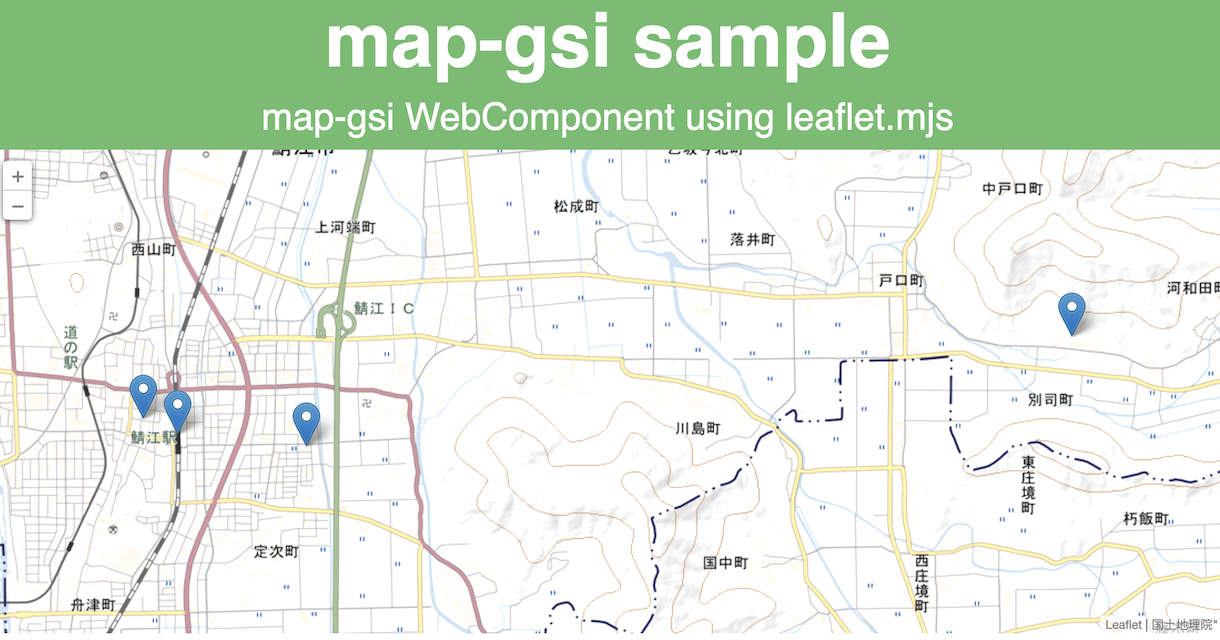
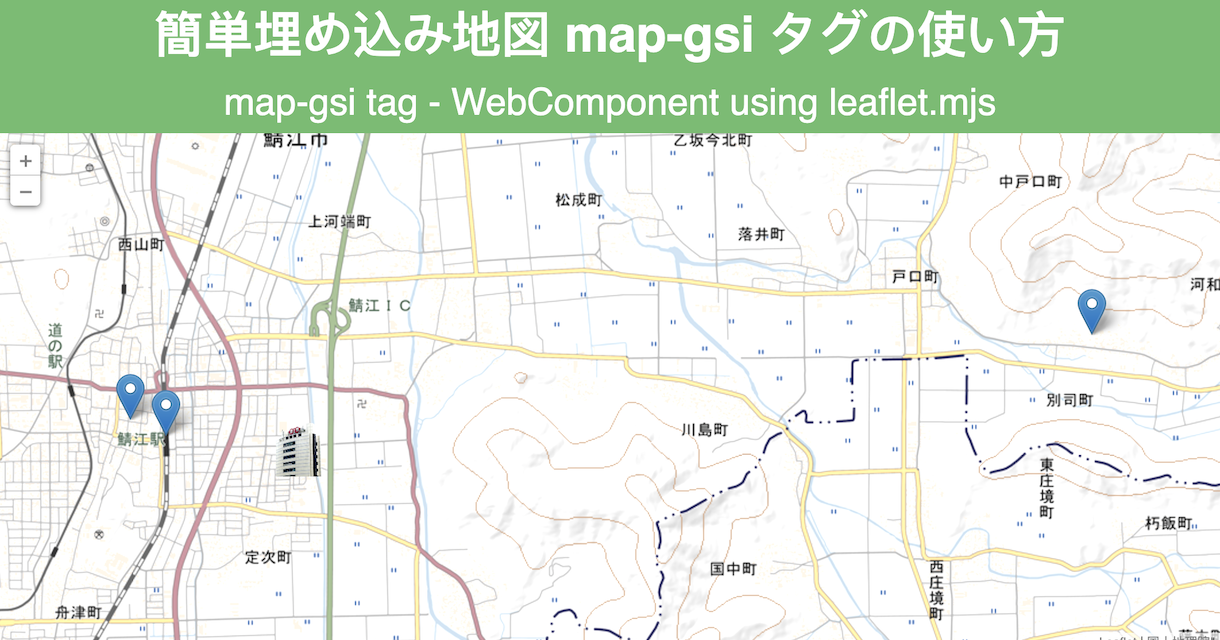
add how to use

diff --git a/map-gsi.html b/map-gsi.html
@@ -3,14 +3,14 @@
 <link rel="apple-touch-icon" href="map-gsi-test.png"/>
 <meta property="og:image" content="map-gsi-test.png"/>
 <meta name="format-detection" content="telephone=no"/>
-<title>map-gsi test - leaflet.mjs</title>
+<title>簡単埋め込み地図 map-gsi タグの使い方</title>
 <link rel="stylesheet" href="./map-gsi-test.css"></link>
 </head>
 <body>
 
-<h1 id=title>map-gsi tag test</h1><div class=subtitle>map-gsi tag - WebComponent using leaflet.mjs</div>
+<h1 id=title>簡単埋め込み地図 map-gsi タグの使い方</h1><div class=subtitle>map-gsi tag - WebComponent using leaflet.mjs</div>
 
-<script type='module' src="./map-gsi.mjs"></script>
+<script type="module" src="https://code4sabae.github.io/leaflet-mjs/map-gsi.mjs"></script>
 <map-gsi>
   <map-gsi-icon ll="35.944535,136.186228" name="Hana道場"></map-gsi-icon>
   <map-gsi-icon ll="35.943560,136.188917" name="鯖江駅"></map-gsi-icon>
@@ -18,12 +18,27 @@
   <map-gsi-icon ll="35.949658,136.258142" name="JAPAN CRAFT HOUSE"></map-gsi-icon>
 </map-gsi>
 
+<br>
+使い方 - 下記のHTMLを埋め込むだけ！（アイコンが全部見える大きさで表示されます）<br>
+<div class=code>
+&lt;script type="module" src="https://code4sabae.github.io/leaflet-mjs/map-gsi.mjs"&gt;&lt;/script&gt;
+&lt;map-gsi&gt;
+  &lt;map-gsi-icon ll="35.944535,136.186228" name="Hana道場"&gt;&lt;/map-gsi-icon&gt;
+  &lt;map-gsi-icon ll="35.943560,136.188917" name="鯖江駅"&gt;&lt;/map-gsi-icon&gt;
+  &lt;map-gsi-icon ll="35.942795,136.198881" name="めがね会館" src="icon-meganekaikan.png" size=48&gt;&lt;/map-gsi-icon&gt;
+  &lt;map-gsi-icon ll="35.949658,136.258142" name="JAPAN CRAFT HOUSE"&gt;&lt;/map-gsi-icon&gt;
+&lt;/map-gsi&gt;
+
+</div>
+
+<div>緯度経度を調べたい時は、「<a href=https://fukuno.jig.jp/app/printmap/latlngmap.html>緯度経度地図</a>」をどうぞ！</div>
+
 <div id="link">
   <div id="src">
     <div>LIB：CC BY <a href='https://leafletjs.com/'>Leaflet</a> (<a href=https://github.com/Leaflet/Leaflet>src on GitHub</a>) → <a href=https://fukuno.jig.jp/2826>leaflet.mjs</a> (<a href=https://github.com/code4sabae/leaflet-mjs>src on GitHub</a>)</div>
     <div>APP：CC BY <a href='https://fukuno.jig.jp/2826'>fukuno.jig.jp</a> (<a href=https://github.com/code4sabae/leaflet-mjs>src on GitHub</a>)</div>
   </div>
-  <script type='module' src="./qr-code.mjs"></script>
+  <script type='module' src="https://code4sabae.github.io/leaflet-mjs/qr-code.mjs"></script>
   <qr-code></qr-code>
 </div>
 

diff --git a/map-gsi-test.css b/map-gsi-test.css
@@ -10,7 +10,7 @@ h1 {
 	padding: .0em;
 	background-color: var(--main-color);
 	color: white;
-	font-size: 6vw;
+	font-size: 4vw;
 	text-align: center;
 }
 h2 {
@@ -23,6 +23,13 @@ h2 {
 	background-color: var(--main-color);
 	color: white;
 	font-size: 3vw;
+}
+.code {
+	border: 1px solid gray;
+	padding: 1em;
+	margin: 1em;
+	text-align: left;
+	white-space: pre-wrap;
 }
 /* footer */
 #src {
